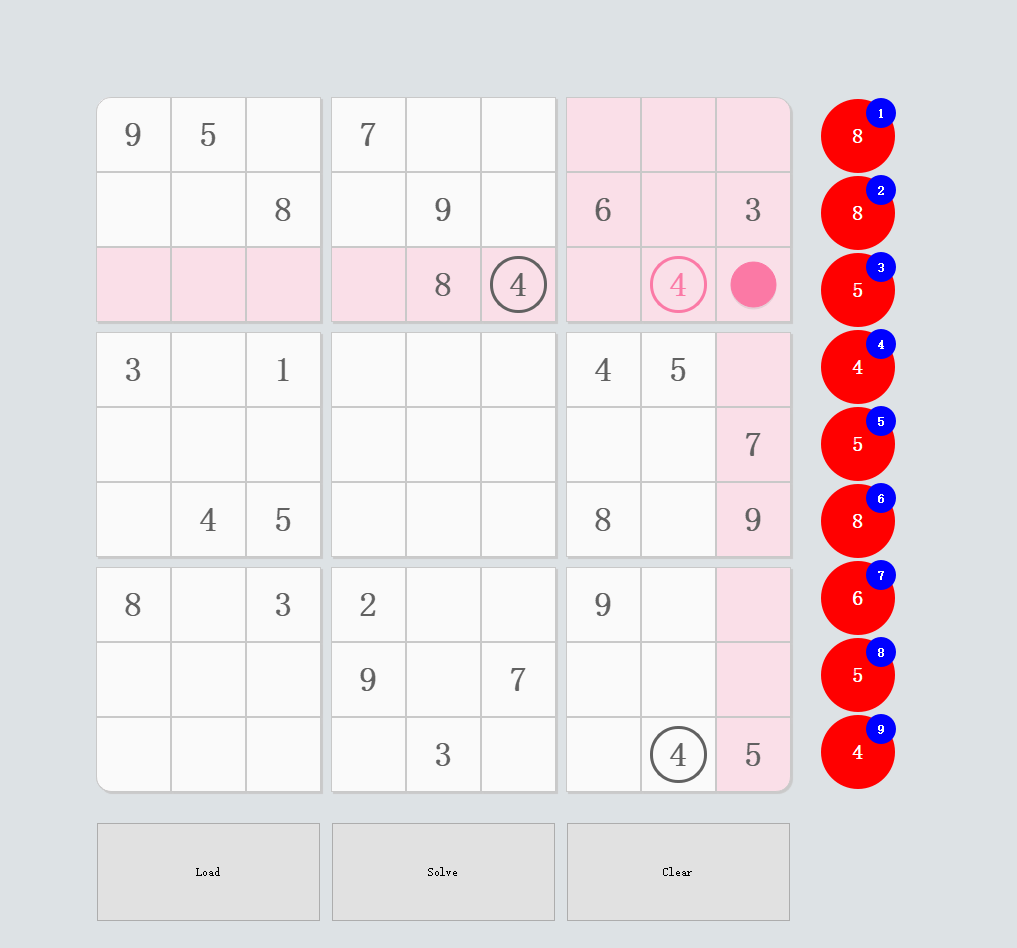
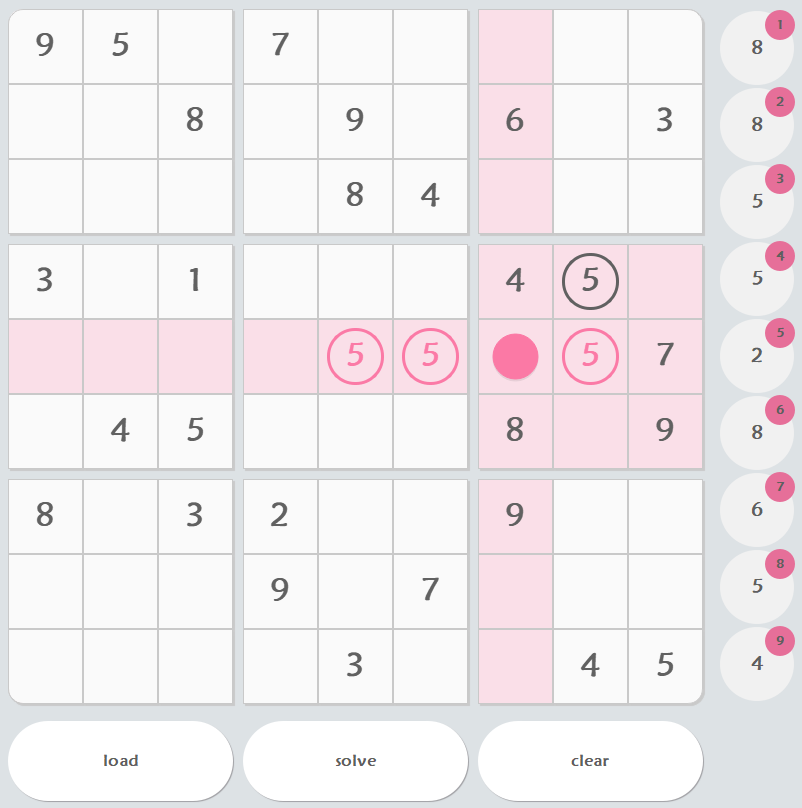
change color

diff --git a/src/widgets/circlewidget.cpp b/src/widgets/circlewidget.cpp
@@ -14,7 +14,7 @@ Counter::Counter(int num, int size, QWidget *parent) : QWidget(parent), m_count(
                   "max-height: %4px;"
                   "border-radius: %5px;"
                   "background: %6;"
-                  "color:#FFFFFF";
+                  "color:#5F5F5F";
 
     m_lr = size * 0.5;
     int d1 = m_lr * 2;
@@ -27,15 +27,15 @@ Counter::Counter(int num, int size, QWidget *parent) : QWidget(parent), m_count(
     QFont numFont("华文新魏", 10);
     numFont.setBold(true);
 
-    QString numStyle = m_baseStyle.arg(d1).arg(d1).arg(d1).arg(d1).arg(m_lr).arg("red");
-    QString cntStyle = m_baseStyle.arg(d2).arg(d2).arg(d2).arg(d2).arg(m_sr).arg("blue");
+    QString numStyle = m_baseStyle.arg(d2).arg(d2).arg(d2).arg(d2).arg(m_sr).arg("#E66F99");
+    QString cntStyle = m_baseStyle.arg(d1).arg(d1).arg(d1).arg(d1).arg(m_lr).arg("#F1F1F1");
 
     this->setFixedSize(size, size);
 
     m_cntLabel = new QLabel(this);
     m_cntLabel->setText("9");
     m_cntLabel->setFont(cntFont);
-    m_cntLabel->setStyleSheet(numStyle);
+    m_cntLabel->setStyleSheet(cntStyle);
     m_cntLabel->setAlignment(Qt::AlignCenter);
     m_cntLabel->setFixedSize(m_lr, m_lr);
     m_cntLabel->move(0, size - d1);
@@ -43,7 +43,7 @@ Counter::Counter(int num, int size, QWidget *parent) : QWidget(parent), m_count(
     m_numLabel = new QLabel(this);
     m_numLabel->setText(QString::number(num));
     m_numLabel->setFont(numFont);
-    m_numLabel->setStyleSheet(cntStyle);
+    m_numLabel->setStyleSheet(numStyle);
     m_numLabel->setAlignment(Qt::AlignCenter);
     m_numLabel->setFixedSize(m_sr, m_sr);
     m_numLabel->move(size - d2, 0);
@@ -59,8 +59,8 @@ void Counter::enterEvent(QEvent *e)
     if (m_count > 0)
     {
         int d = m_lr * 2;
-        QString numStyle = m_baseStyle.arg(d).arg(d).arg(d).arg(d).arg(m_lr).arg("green");
-        m_cntLabel->setStyleSheet(numStyle);
+        QString cntStyle = m_baseStyle.arg(d).arg(d).arg(d).arg(d).arg(m_lr).arg("#FADFE8");
+        m_cntLabel->setStyleSheet(cntStyle);
     }
     emit hovered();
 
@@ -72,8 +72,8 @@ void Counter::leaveEvent(QEvent *e)
     if (m_count > 0)
     {
         int d = m_lr * 2;
-        QString numStyle = m_baseStyle.arg(d).arg(d).arg(d).arg(d).arg(m_lr).arg("red");
-        m_cntLabel->setStyleSheet(numStyle);
+        QString cntStyle = m_baseStyle.arg(d).arg(d).arg(d).arg(d).arg(m_lr).arg("#F1F1F1");
+        m_cntLabel->setStyleSheet(cntStyle);
     }
     emit leave();
 
@@ -87,7 +87,7 @@ void Counter::minus()
     {
         m_cntLabel->setText("0");
         int d = m_lr * 2;
-        QString numStyle = m_baseStyle.arg(d).arg(d).arg(d).arg(d).arg(m_lr).arg("red");
+        QString numStyle = m_baseStyle.arg(d).arg(d).arg(d).arg(d).arg(m_lr).arg("#E5E0E5");
         m_cntLabel->setStyleSheet(numStyle);
     }
     else
@@ -109,7 +109,7 @@ void Counter::plus()
     {
         m_cntLabel->setText(QString::number(m_count));
         int d = m_lr * 2;
-        QString numStyle = m_baseStyle.arg(d).arg(d).arg(d).arg(d).arg(m_lr).arg("red");
+        QString numStyle = m_baseStyle.arg(d).arg(d).arg(d).arg(d).arg(m_lr).arg("#F1F1F1");
         m_cntLabel->setStyleSheet(numStyle);
     }
 
@@ -121,6 +121,18 @@ void Counter::setValue(int value)
     m_count = value;
     m_cntLabel->setText(QString::number(m_count));
     this->updateOpacity();
+    if (m_count == 0)
+    {
+        int d = m_lr * 2;
+        QString numStyle = m_baseStyle.arg(d).arg(d).arg(d).arg(d).arg(m_lr).arg("#E5E0E5");
+        m_cntLabel->setStyleSheet(numStyle);
+    }
+    else
+    {
+        int d = m_lr * 2;
+        QString numStyle = m_baseStyle.arg(d).arg(d).arg(d).arg(d).arg(m_lr).arg("#F1F1F1");
+        m_cntLabel->setStyleSheet(numStyle);
+    }
 }
 
 void Counter::clear()

diff --git a/src/mainwindow.cpp b/src/mainwindow.cpp
@@ -36,7 +36,7 @@ QPushButton* createButton(QString text)
     QPushButton *button = new QPushButton(text);
     button->setFont(buttonFont);
     button->setGraphicsEffect(shadow_effect);
-    button->setStyleSheet("QWidget{border-radius:40px;background-color:#FFFFFF;}"
+    button->setStyleSheet("QWidget{border-radius:40px;background-color:#FFFFFF;color:#5F5F5F;}"
                           "QPushButton:hover{background-color:rgb(236,236,236);}"
                           "QPushButton:pressed{background-color:rgb(222,222,222);}");
     return button;
@@ -89,19 +89,19 @@ MainWindow::MainWindow(QWidget *parent) :
 
     QPushButton *loadButton = createButton("load");
     loadButton->setParent(this);
-    loadButton->move(startX + (gridSize * 3 + spacing) * 0, gridSize * 9 + 50 + startY);
+    loadButton->move(startX + (gridSize * 3 + spacing) * 0, gridSize * 9 + 37 + startY);
     loadButton->setFixedSize(gridSize * 3, 80);
     connect(loadButton, &QPushButton::clicked, [&](){loadRandomPuzzle();});
 
     QPushButton *solveButton = createButton("solve");
     solveButton->setParent(this);
-    solveButton->move(startX + (gridSize * 3 + spacing) * 1, gridSize * 9 + 50 + startY);
+    solveButton->move(startX + (gridSize * 3 + spacing) * 1, gridSize * 9 + 37 + startY);
     solveButton->setFixedSize(gridSize * 3, 80);
     connect(solveButton, &QPushButton::clicked, [&](){solve();});
 
     QPushButton *clearButton = createButton("clear");
     clearButton->setParent(this);
-    clearButton->move(startX + (gridSize * 3 + spacing) * 2, gridSize * 9 + 50 + startY);
+    clearButton->move(startX + (gridSize * 3 + spacing) * 2, gridSize * 9 + 37 + startY);
     clearButton->setFixedSize(gridSize * 3, 80);
     connect(clearButton, &QPushButton::clicked,  [&](){clearAll();});
 
@@ -114,7 +114,7 @@ MainWindow::MainWindow(QWidget *parent) :
     for (int i = 0; i < 9; i++)
     {
        Counter *counter = new Counter(i + 1, gridSize, this);
-       counter->move(gridSize * 9 + 50 + startX, startY + space + i * (space + gridSize + 1));
+       counter->move(gridSize * 9 + 37 + startX, startY + space + i * (space + gridSize + 1));
        m_counters.push_back(counter);
        connect(counter, &Counter::hovered, [=]() {highlight(i + 1, true);});
        connect(counter, &Counter::leave, [=]() {highlight(i + 1, false);});
@@ -198,7 +198,7 @@ void MainWindow::highlight(int num, int active)
 
 void MainWindow::loadRandomPuzzle()
 {
-    QFile file("D:/test.txt");
+    QFile file("E:/1.txt");
     if(!file.open(QFile::ReadOnly))
     {
         return;
